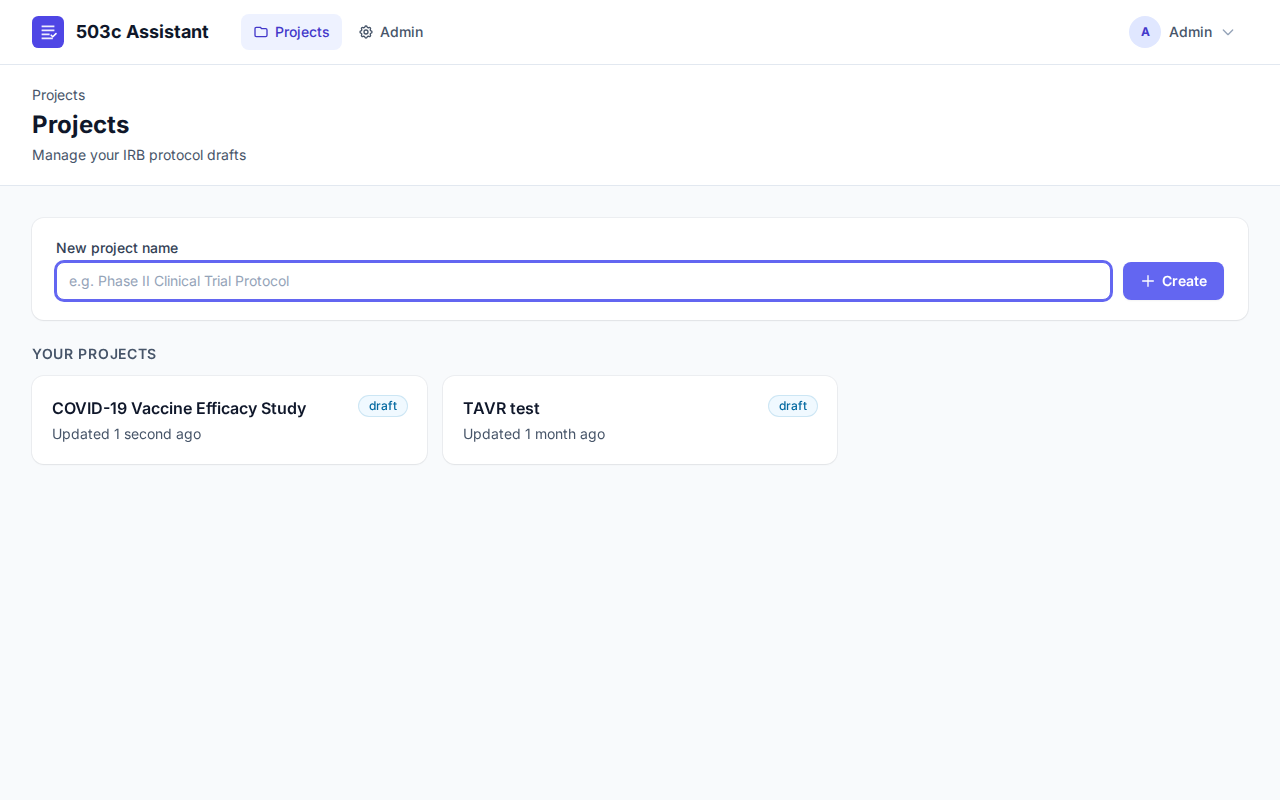
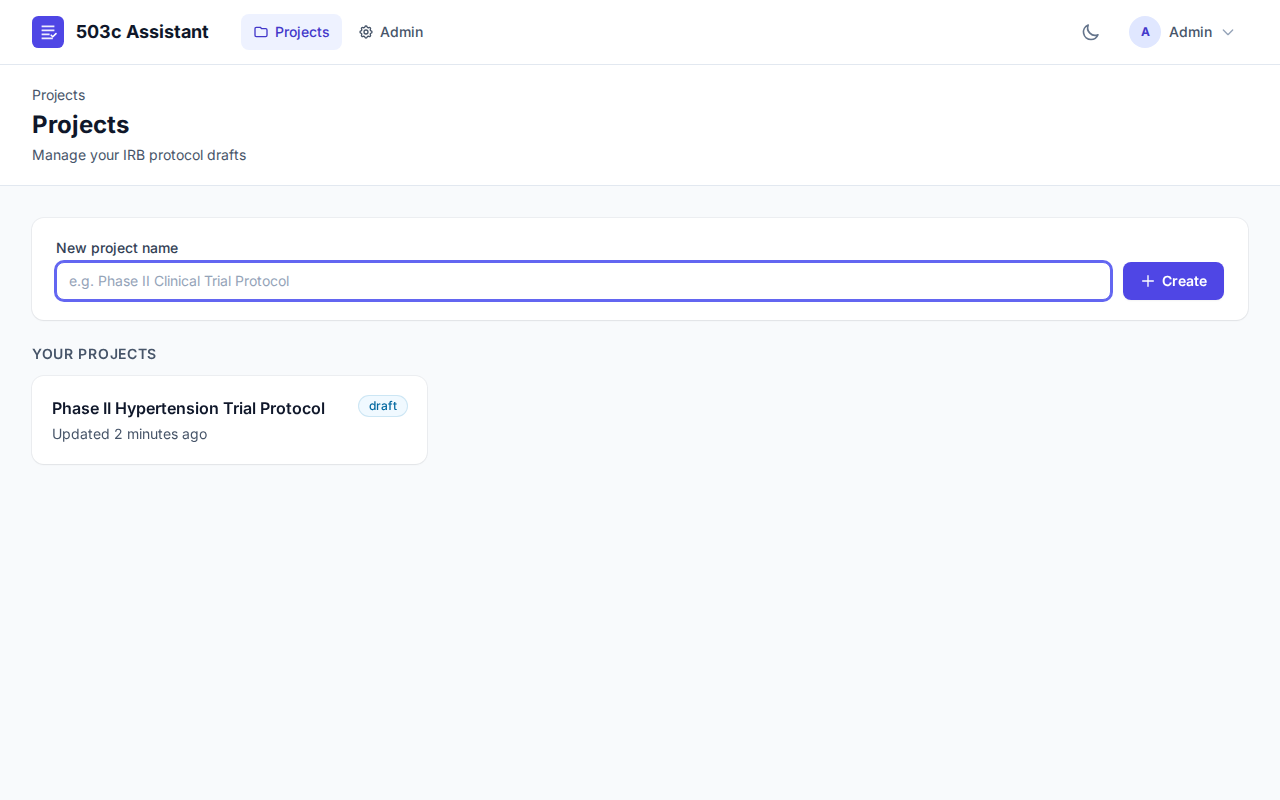
docs(readme): refresh marketing screenshots for v0.3.0+
Re-captured the 4 README screenshots that have visibly changed since
2026-04-07: dashboard, documents tab, review tab, admin panel. Login
page is byte-identical (auth UI is untouched since the prior capture).

  503c-assistant/screenshots/02-projects-dashboard.png
    Now shows the modern Inter/slate/indigo design system with
    breadcrumbs, dark-mode toggle in the nav, and a single
    presentable demo project ("Phase II Hypertension Trial Protocol")
    instead of the older marketing-anonymous list.

  503c-assistant/screenshots/03-project-documents.png
    Documents tab with the uploaded protocol.txt showing
    completed extraction status, scan: unscanned label (current
    dev-mode behavior with no ClamAV installed), the AI Analysis
    panel including the LLM Provider selector and Run Analysis
    button.

  503c-assistant/screenshots/04-project-review.png
    Review tab deep-linked to ?fv=<id> for a suggested field so the
    right-hand editor displays a real LLM-filled answer
    ("Dr. Jane Doe, Department of Internal Medicine"), confidence
    score, and "1 evidence" badge. Field list shows mixed
    missing / confirmed / suggested badges. This is the most
    representative shot of the evidence-backed AI suggestion flow.

  503c-assistant/screenshots/05-admin-panel.png
    LLM Providers tab with the configured "LM Studio (gemma-4-e4b)"
    entry showing default + enabled + Passed test badges, the
[…]

diff --git a/503c-assistant/tests/e2e/readme-screenshots.spec.ts b/503c-assistant/tests/e2e/readme-screenshots.spec.ts
@@ -1,0 +1,155 @@
+import { test, expect } from 'playwright/test';
+import { spawnSync } from 'node:child_process';
+import fs from 'node:fs';
+import path from 'node:path';
+
+function tinker(php: string): string {
+  const result = spawnSync('php', ['artisan', 'tinker', '--execute', php], {
+    cwd: process.cwd(),
+    encoding: 'utf8',
+    timeout: 60_000,
+  });
+  if (result.status !== 0) {
+    throw new Error(`tinker exit ${result.status}: ${result.stderr}`);
+  }
+  return (result.stdout || '').replace(/^Restricted Mode:.*\n/m, '');
+}
+
+// ---------------------------------------------------------------------------
+// Captures the 5 README marketing screenshots at 1280x800 to match the
+// previously-tracked set under 503c-assistant/screenshots/. Opt-in via
+// IRB_CAPTURE_SCREENSHOTS=1 so the spec does not run in CI; CI does not
+// have the LM Studio data, the demo project, or the desire to overwrite
+// repository assets on every run.
+//
+//   IRB_CAPTURE_SCREENSHOTS=1 npx playwright test \
+//       readme-screenshots.spec.ts --workers=1
+//
+// Pre-conditions enforced by the test:
+//   - admin storageState exists (created by the regular auth.setup.ts
+//     project; running this spec inherits it via the chromium project
+//     dependency).
+//   - One project named "Phase II Hypertension Trial Protocol" exists
+//     with at least 1 uploaded document and at least one suggested
+//     field value (used for the documents and review tab shots).
+//
+// Spec output:
+//   503c-assistant/screenshots/01-login.png
+//   503c-assistant/screenshots/02-projects-dashboard.png
+//   503c-assistant/screenshots/03-project-documents.png
+//   503c-assistant/screenshots/04-project-review.png
+//   503c-assistant/screenshots/05-admin-panel.png
+// ---------------------------------------------------------------------------
+
+const VIEWPORT = { width: 1280, height: 800 };
+const OUTDIR = 'screenshots';
+const DEMO_PROJECT_NAME = 'Phase II Hypertension Trial Protocol';
+
+function shotPath(name: string): string {
+  return path.join(OUTDIR, name);
+}
+
+test.describe('README screenshots', () => {
+  test.skip(
+    process.env.IRB_CAPTURE_SCREENSHOTS !== '1',
+    'opt-in: set IRB_CAPTURE_SCREENSHOTS=1 to overwrite tracked README assets',
+  );
+
+  test.use({ viewport: VIEWPORT });
+
+  test.beforeAll(() => {
+    fs.mkdirSync(OUTDIR, { recursive: true });
+  });
+
+  // -------------------------------------------------------------------
+  // 01 — Login page (logged-out state, no auth cookies). Force empty
+  // storageState so the context cannot inherit the admin session and
+  // get redirected away from /login by the auth.guest middleware.
+  // -------------------------------------------------------------------
+  test('01-login', async ({ browser }) => {
+    const context = await browser.newContext({
+      viewport: VIEWPORT,
+      storageState: { cookies: [], origins: [] },
+    });
+    const page = await context.newPage();
+    await page.goto('/login');
+    await page.waitForLoadState('networkidle');
+    // Sanity: the page must NOT have redirected away from /login.
+    expect(page.url()).toMatch(/\/login(?:\?.*)?$/);
+    await expect(page.locator('#email')).toBeVisible();
+    await expect(page.locator('#password')).toBeVisible();
+    await page.screenshot({ path: shotPath('01-login.png') });
+    await context.close();
+  });
+
+  // -------------------------------------------------------------------
+  // 02 — Projects dashboard. Inherits admin storageState so we land on
+  // the index with at least one tracked project.
+  // -------------------------------------------------------------------
+  test('02-projects-dashboard', async ({ page }) => {
+    await page.goto('/projects');
+    await page.waitForLoadState('networkidle');
+    await expect(page.getByRole('heading', { name: 'Projects', exact: true }).first()).toBeVisible();
+    await page.screenshot({ path: shotPath('02-projects-dashboard.png') });
+  });
+
+  // -------------------------------------------------------------------
+  // 03 — Project Documents tab. Picks the demo project by name.
+  // -------------------------------------------------------------------
+  test('03-project-documents', async ({ page }) => {
+    await page.goto('/projects');
+    await page.waitForLoadState('networkidle');
+
+    const link = page.getByRole('link', { name: new RegExp(DEMO_PROJECT_NAME, 'i') }).first();
+    await expect(link, `expected demo project "${DEMO_PROJECT_NAME}" on dashboard`).toBeVisible();
+    await link.click();
+    await page.waitForURL(/\/projects\/[a-f0-9-]{36}/);
+    await page.waitForLoadState('networkidle');
+
+    // Make sure we land on documents tab (the default tab).
+    const tabDocs = page.locator('a#tab-documents');
+    if (await tabDocs.isVisible()) {
+      const isActive = await tabDocs.getAttribute('aria-selected');
+      if (isActive !== 'true') {
+        await tabDocs.click();
+        await page.waitForLoadState('networkidle');
+      }
+    }
+    await page.screenshot({ path: shotPath('03-project-documents.png') });
+  });
+
+  // -------------------------------------------------------------------
+  // 04 — Project Review tab — the marketing money shot. Shows
+  // AI-suggested values in the field list and an editor on the right.
+  // -------------------------------------------------------------------
+  test('04-project-review', async ({ page }) => {
+    // Look up the demo project + its first suggested field-value id so we
+    // can deep-link to ?tab=review&fv=<id> and ensure the right-hand
+    // editor displays a populated LLM suggestion (not a missing field).
+    const out = tinker(`
+      $p = \\App\\Models\\Project::where('name', '${DEMO_PROJECT_NAME}')->firstOrFail();
+      $fv = \\App\\Models\\ProjectFieldValue::where('project_id', $p->id)
+          ->where('status', 'suggested')->orderBy('id')->first();
+      echo $p->uuid.'|'.($fv ? $fv->id : '0');
+    `);
+    const last = out.trim().split('\n').pop() || '';
+    const [uuid, fvId] = last.split('|');
+    expect(uuid, 'expected to resolve demo project uuid').toMatch(/^[a-f0-9-]{36}$/);
+    expect(fvId, 'expected at least one suggested field on demo project').not.toBe('0');
+
+    await page.goto(`/projects/${uuid}?tab=review&fv=${fvId}`);
+    await page.waitForLoadState('networkidle');
+    await page.screenshot({ path: shotPath('04-project-review.png') });
+  });
+
+  // -------------------------------------------------------------------
+  // 05 — Admin panel — Providers tab so the configured LM Studio entry
+  // is visible in the listing.
+  // -------------------------------------------------------------------
+  test('05-admin-panel', async ({ page }) => {
+    await page.goto('/admin?tab=providers');
+    await page.waitForLoadState('networkidle');
+    await expect(page.locator('text=/Configured Providers/i').first()).toBeVisible();
+    await page.screenshot({ path: shotPath('05-admin-panel.png') });
+  });
+});
